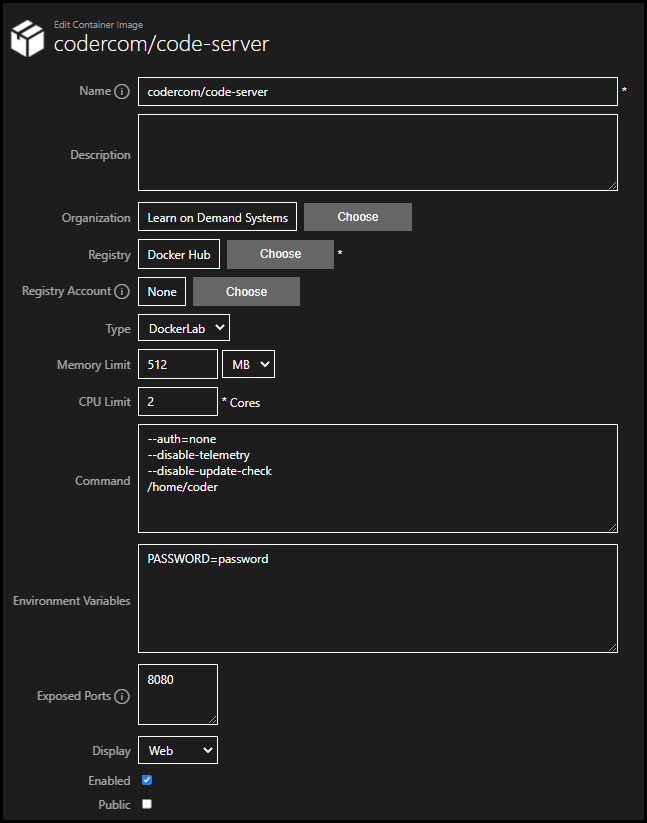
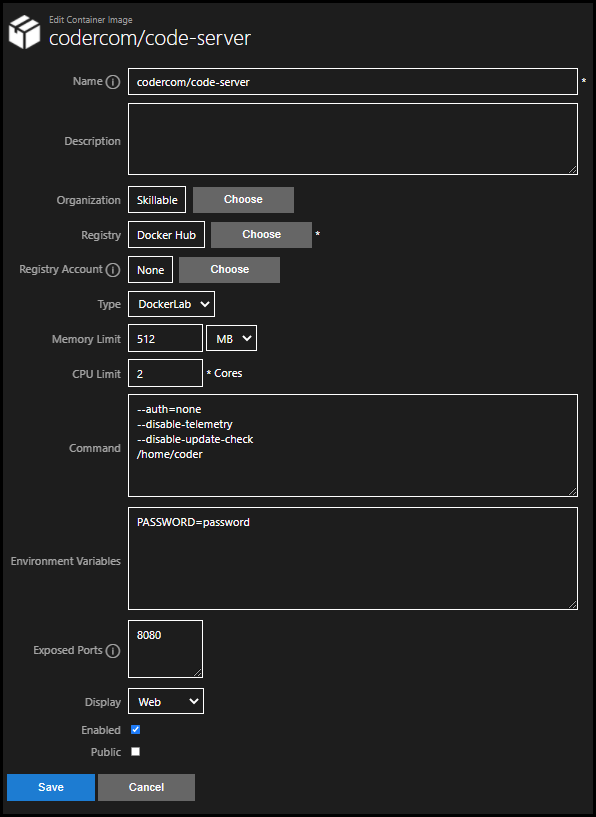
Removed LODS references from screenshots

Changed region(s): [[0.0, 0.0918, 0.9664, 1.0], [0.0, 0.0, 0.4228, 0.0918]]

diff --git a/lod/access-control-lists.md b/lod/access-control-lists.md
@@ -32,7 +32,7 @@ ACLs use blacklists and whitelists. Domains added to the blacklist will not be r
     - **Enabled**: select to enable this ACL for use. 
 
 1. Under **Blacklist**:
-    - In the **Domains** field, enter any domains you want to dissallow access to in the lab, each on a newline.
+    - In the **Domains** field, enter any domains you want to disallow access to in the lab, each on a newline.
 
     - In the **Expressions** field, enter any regular expressions, each on a newline.
 
@@ -41,17 +41,17 @@ ACLs use blacklists and whitelists. Domains added to the blacklist will not be r
 
     - In the **Expressions** field, enter any regular expressions, each on a newline.
 
-Domains and expressions added to the Blacklist will be superceeded by domains and expressions added to the Whitelist. 
+Domains and expressions added to the Blacklist will be superseded by domains and expressions added to the Whitelist. 
 
 For example, you could:
-- Add `.*learnondemandsystems\.com` to the blacklist expressions field
-- Add `docs.learnondemandsystems.com` to the whitelist domains field 
+- Add `*skillable\.com` to the blacklist expressions field
+- Add `docs.skillable.com` to the whitelist domains field 
 
     ![](images/configured-black-and-white-lists.png)
 
-This configuration would block the VM from accessing learnondemandsystems.com, but would allow access to docs.learnondemandsystems.com
+This configuration would block the VM from accessing skillable.com, but would allow access to docs.skillable.com
 
->[!knowledge] Some browswers may handle regex differently and you may need to adjust regex expressions. For example, some browsers may work with an expression like`.*\.learnondemandsystems\.com` and some browsers may work better with an expression like `.*learnondemandsystems\.com`.
+>[!knowledge] Some browsers may handle regex differently and you may need to adjust regex expressions. For example, some browsers may work with an expression like`.*\.skillable\.com` and some browsers may work better with an expression like `.*skillable\.com`.
 
 ## Assigning an Access Control List
 

diff --git a/lod/instruction-source.md b/lod/instruction-source.md
@@ -106,7 +106,9 @@ To use the markdown document in your ADO repository as the instruction source wi
 
 1. Once you are logged into ADO, you will be asked to authorize Lab on Demand to have access to your ADO account. This access is only used to create a webhook so that LOD can be notified whenever the content in your ADO repository changes. Click **Accept** to continue with the integration.
 
+<!--
     ![Authorize application](images/ado-authorization.png "Authorize application")
+-->
 
 1. At this point you will be presented with a list of organizations that are associated with your ADO account. Click select next the organization containing the project file to be used as the instructions source. 
 
@@ -155,7 +157,9 @@ If you're not logged in already, you be will prompted to log in to the GitHub ac
 content in your GitHub repository changes. Click **Authorize application** to
 continue with the integration.
 
+<!--
     ![Authorize application](images/04-authorize-application.png "Authorize application")
+-->
 
 1. At this point you will be presented with a list of repositories that are associated with your GitHub account. Click select next the repository containing the markdown file to be used as the instructions source. 
 

diff --git a/lod/vm-based-lab-landing-page.md b/lod/vm-based-lab-landing-page.md
@@ -22,7 +22,7 @@ A lab can be configured to display the lab instructions on the right side of the
 
 1. Next, click the **Cloud** tab of the lab profile. 
 
-1. Under **Orchestration**, click the checkbox for **Override Client Landing Page**, and enter a URL that you want to be displayed on the left side of the lab instructions, in place of a VM. 
+1. Select the checkbox for **Override Client Landing Page**, and enter a URL that you want to be displayed on the left side of the lab instructions, in place of a VM. 
 
     ![](images/enter-landing-page-url.png)
 
